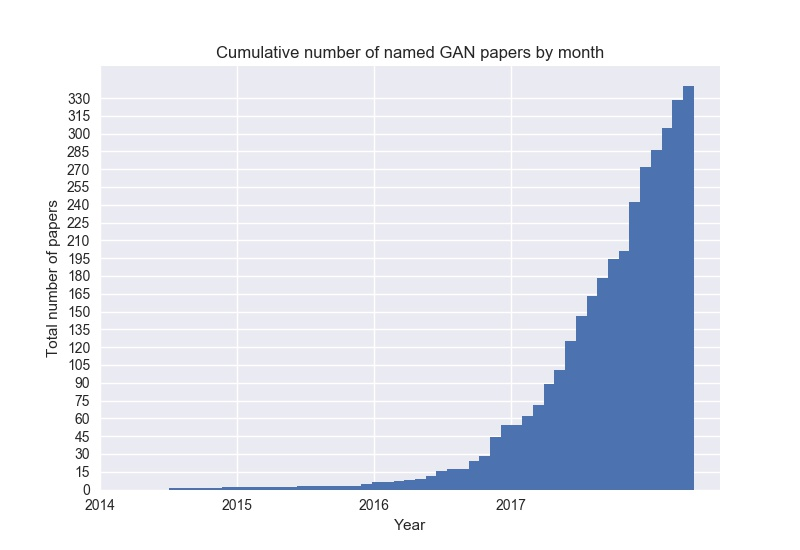
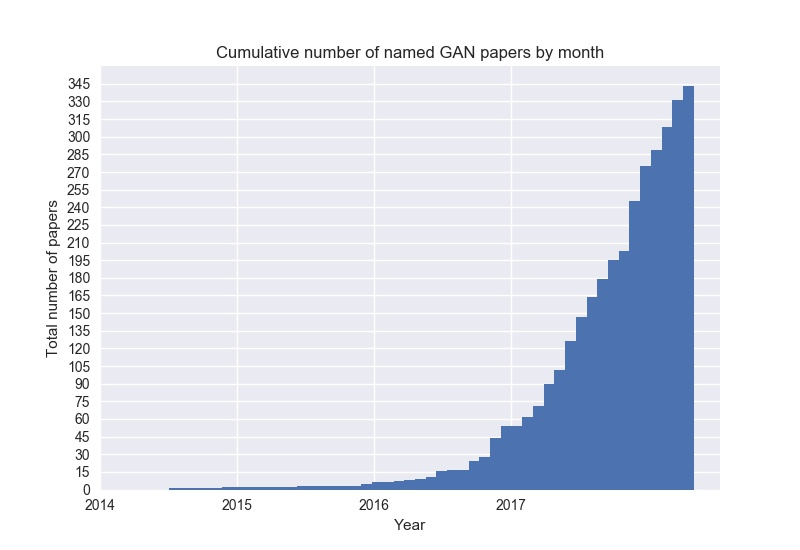
Add three more missing GANs, thanks to Ming-Yu Liu

Changed region(s): [[0.0625, 0.1236, 0.125, 0.7418], [0.0938, 0.8036, 0.125, 0.8345]]

diff --git a/README.md b/README.md
@@ -250,6 +250,7 @@ Check out [Deep Hunt](https://deephunt.in) - my weekly AI newsletter for this re
 * PGGAN - [Patch-Based Image Inpainting with Generative Adversarial Networks](https://arxiv.org/abs/1803.07422) 
 * Pip-GAN - [Pipeline Generative Adversarial Networks for Facial Images Generation with Multiple Attributes](https://arxiv.org/abs/1711.10742) 
 * pix2pix - [Image-to-Image Translation with Conditional Adversarial Networks](https://arxiv.org/abs/1611.07004) ([github](https://github.com/phillipi/pix2pix))
+* pix2pixHD - [High-Resolution Image Synthesis and Semantic Manipulation with Conditional GANs](https://arxiv.org/abs/1711.11585) ([github](https://github.com/NVIDIA/pix2pixHD))
 * PixelGAN - [PixelGAN Autoencoders](https://arxiv.org/abs/1706.00531) 
 * PN-GAN - [Pose-Normalized Image Generation for Person Re-identification](https://arxiv.org/abs/1712.02225) 
 * Pose-GAN - [The Pose Knows: Video Forecasting by Generating Pose Futures](https://arxiv.org/abs/1705.00053) 
@@ -257,6 +258,7 @@ Check out [Deep Hunt](https://deephunt.in) - my weekly AI newsletter for this re
 * PPGN - [Plug & Play Generative Networks: Conditional Iterative Generation of Images in Latent Space](https://arxiv.org/abs/1612.00005) 
 * PrGAN - [3D Shape Induction from 2D Views of Multiple Objects](https://arxiv.org/abs/1612.05872) 
 * ProGanSR - [A Fully Progressive Approach to Single-Image Super-Resolution](https://arxiv.org/abs/1804.02900) 
+* Progressive GAN - [Progressive Growing of GANs for Improved Quality, Stability, and Variation](https://arxiv.org/abs/1710.10196) ([github](https://github.com/tkarras/progressive_growing_of_gans))
 * PS-GAN - [Pedestrian-Synthesis-GAN: Generating Pedestrian Data in Real Scene and Beyond](https://arxiv.org/abs/1804.02047) 
 * PSGAN - [Learning Texture Manifolds with the Periodic Spatial GAN](http://arxiv.org/abs/1705.06566) 
 * PS²-GAN - [High-Quality Facial Photo-Sketch Synthesis Using Multi-Adversarial Networks](https://arxiv.org/abs/1710.10182) 
@@ -329,6 +331,7 @@ Check out [Deep Hunt](https://deephunt.in) - my weekly AI newsletter for this re
 * UGACH - [Unsupervised Generative Adversarial Cross-modal Hashing](https://arxiv.org/abs/1712.00358) 
 * UGAN - [Enhancing Underwater Imagery using Generative Adversarial Networks](https://arxiv.org/abs/1801.04011) 
 * Unim2im - [Unsupervised Image-to-Image Translation with Generative Adversarial Networks ](https://arxiv.org/abs/1701.02676) ([github](http://github.com/zsdonghao/Unsup-Im2Im))
+* UNIT - [Unsupervised Image-to-image Translation Networks](https://arxiv.org/abs/1703.00848) ([github](https://github.com/mingyuliutw/UNIT))
 * Unrolled GAN - [Unrolled Generative Adversarial Networks](https://arxiv.org/abs/1611.02163) ([github](https://github.com/poolio/unrolled_gan))
 * VAE-GAN - [Autoencoding beyond pixels using a learned similarity metric](https://arxiv.org/abs/1512.09300) 
 * VariGAN - [Multi-View Image Generation from a Single-View](https://arxiv.org/abs/1704.04886) 
